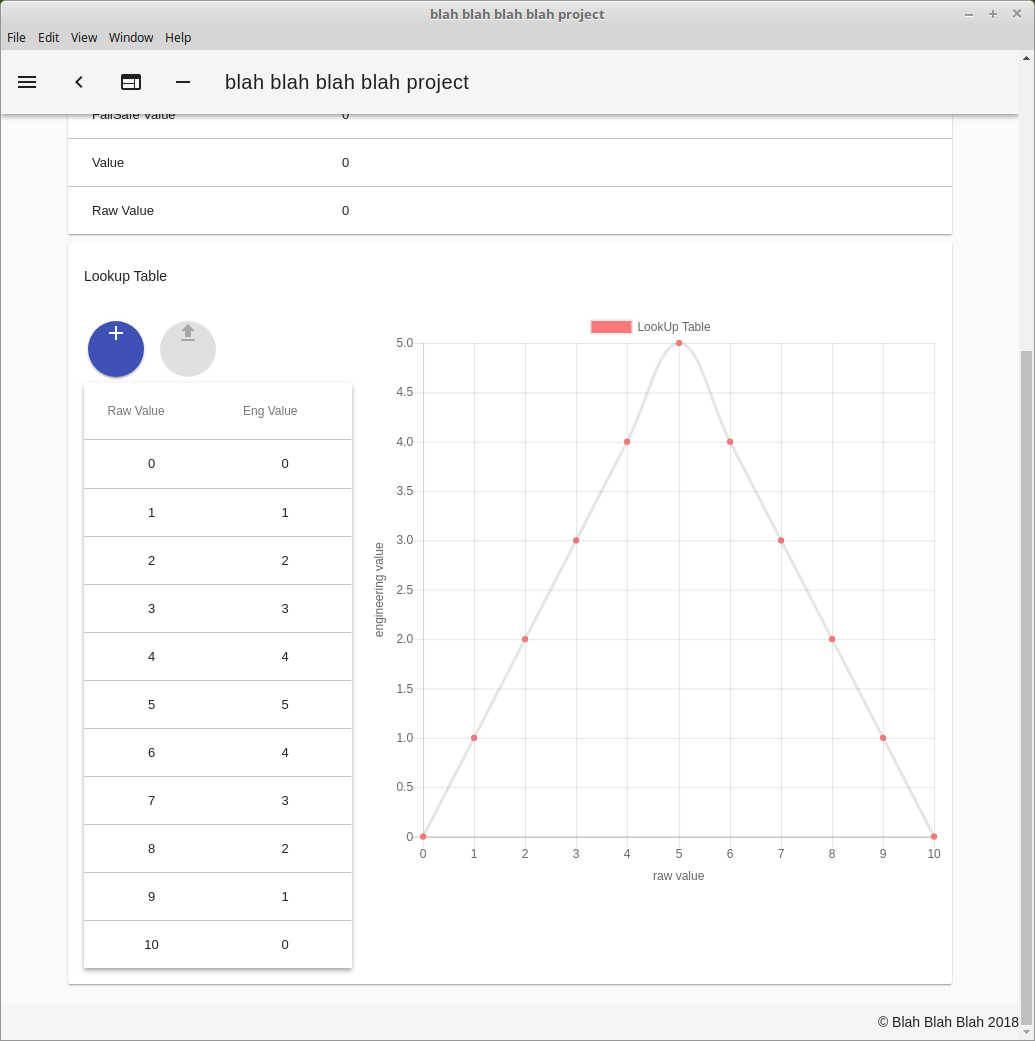
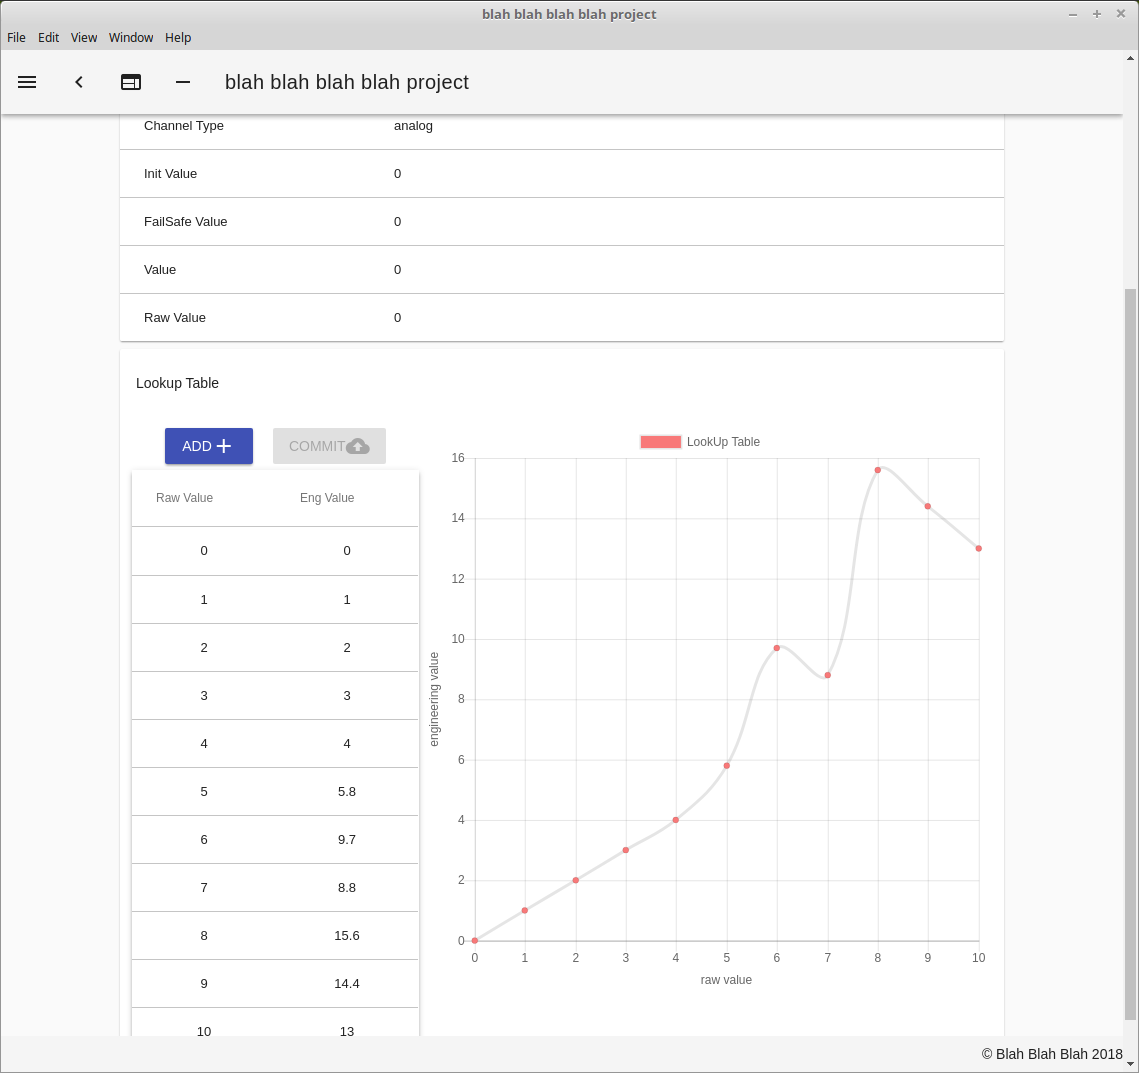
changing lookup table button to rectangle due to vuetify 1.0.17 bug. adding some funny effects. upgrading vue and vuetify.

diff --git a/hmi_base/src/renderer/components/LookupTableView.vue b/hmi_base/src/renderer/components/LookupTableView.vue
@@ -1,23 +1,26 @@
 <template>
-  <v-container grid-list-md text-xs-center>
-    <v-layout row wrap justify-center id="wrapper">
+  <v-container>
+    <v-layout row wrap grid-list-md>
       <v-flex xs4>
-        <v-container grid-list-md text-xs-center>
-          <v-layout row wrap>
+        <v-layout column>
+          <div class="text-xs-center">
             <v-tooltip top>
-              <v-btn fab dark color="indigo" slot="activator" @click="on_click_add">
-                <v-icon dark>add</v-icon>
+              <v-btn dark color="indigo" slot="activator" @click="on_click_add">
+                Add
+                <v-icon>add</v-icon>
               </v-btn>
               <span>Add new lookup table entry</span>
             </v-tooltip>
 
             <v-tooltip top>
-              <v-btn  fab color="red" slot="activator" @click="on_click_commit" :disabled="table_changed == false">
-                <v-icon class="white--text">file_upload</v-icon>
+              <v-btn color="red" slot="activator" @click="on_click_commit" :disabled="table_changed == false"
+               :loading="updating_lookup_table">
+                Commit
+                <v-icon>cloud_upload</v-icon>
               </v-btn>
               <span>Commit changes</span>
             </v-tooltip>
-          </v-layout>
+          </div>
 
           <v-data-table
            disable-initial-sort
@@ -68,7 +71,7 @@
               </v-card-actions>
             </v-card>
           </v-dialog>
-        </v-container>
+        </v-layout>
       </v-flex>
 
       <v-flex xs8>
@@ -105,6 +108,7 @@
 
       return {
         table_changed: false,
+        updating_lookup_table: false,
         dialog: false,
         dialog_add_mode: true,
         dialog_raw: 0.0,
@@ -196,25 +200,30 @@
       on_click_commit: function () {
         var self = this
 
-        serverAPI.updateLookupTable(this.chnl_num, this.lookup_table, (err, data) => {
-          if (err) {
-            console.log('failed to update lookup table for ' + this.chnl_num)
-            console.log(err)
-            self.$notify({
-              title: 'Update Failed',
-              text: 'Failed updating Lookup Table!',
-              type: 'error'
-            })
-            return
-          }
+        self.updating_lookup_table = true
 
-          self.table_changed = false
-          self.$notify({
-            title: 'Update Success',
-            text: 'Lookup Table was successfully udpated!',
-            type: 'success'
-          })
-          console.log('lookup table update success for ' + this.chnl_num)
+        serverAPI.updateLookupTable(this.chnl_num, this.lookup_table, (err, data) => {
+          setTimeout(() => {
+            self.updating_lookup_table = false
+            if (err) {
+              console.log('failed to update lookup table for ' + this.chnl_num)
+              console.log(err)
+              self.$notify({
+                title: 'Update Failed',
+                text: 'Failed updating Lookup Table!',
+                type: 'error'
+              })
+              return
+            }
+
+            self.table_changed = false
+            self.$notify({
+              title: 'Update Success',
+              text: 'Lookup Table was successfully udpated!',
+              type: 'success'
+            })
+            console.log('lookup table update success for ' + this.chnl_num)
+          }, 1000)
         })
       },
       update_table_entry: function () {
